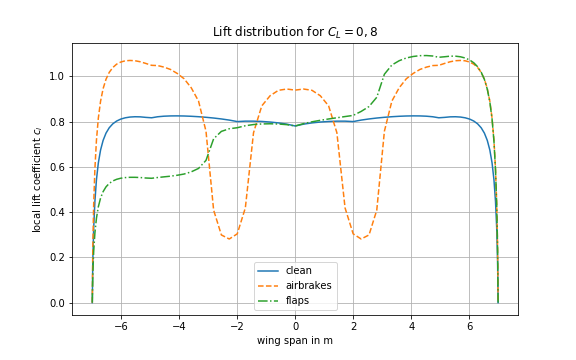
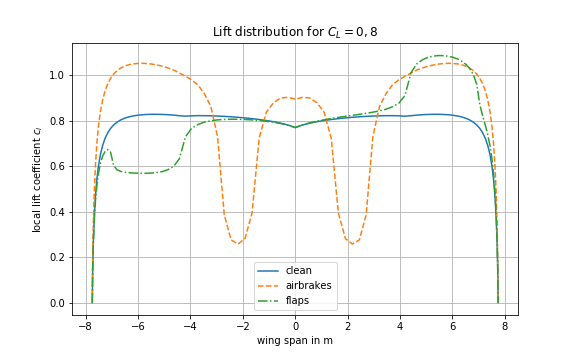
use better example wing

diff --git a/README.md b/README.md
@@ -17,8 +17,6 @@ pip install https://github.com/helo9/wingstructure/archive/master.zip
 ### Creation of Wing
 Create simple geometry:
 ```python
-from wingstructure import data
-
 # create wing object
 wing = data.Wing()
 
@@ -35,7 +33,7 @@ wing.set_spoiler(1.5, 2.9)
 
 # define control-surfaces
 wing.set_flap('flap', 1, 2.8,[0.7,0.7])
-wing.set_flap('flap2', 3, 7, [0.7,0.8])
+wing.set_flap('flap2', 4.25, 7, [0.7,0.8])
 
 # display simple wing
 plt.figure(figsize=(8,5))
